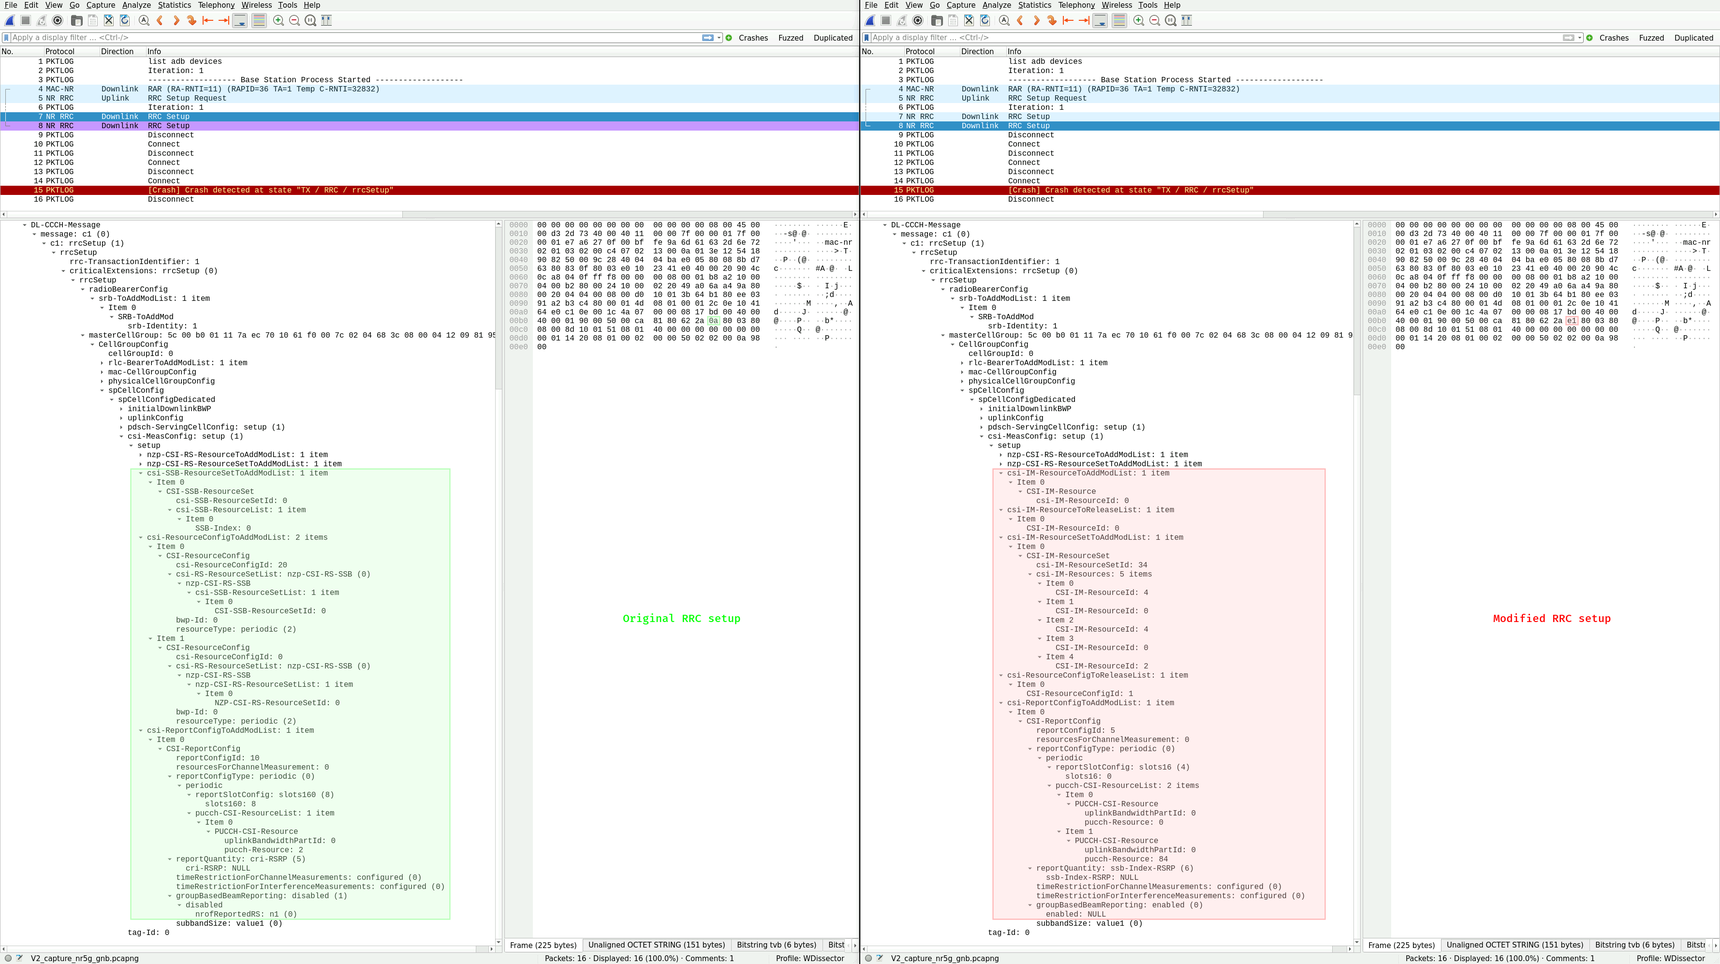
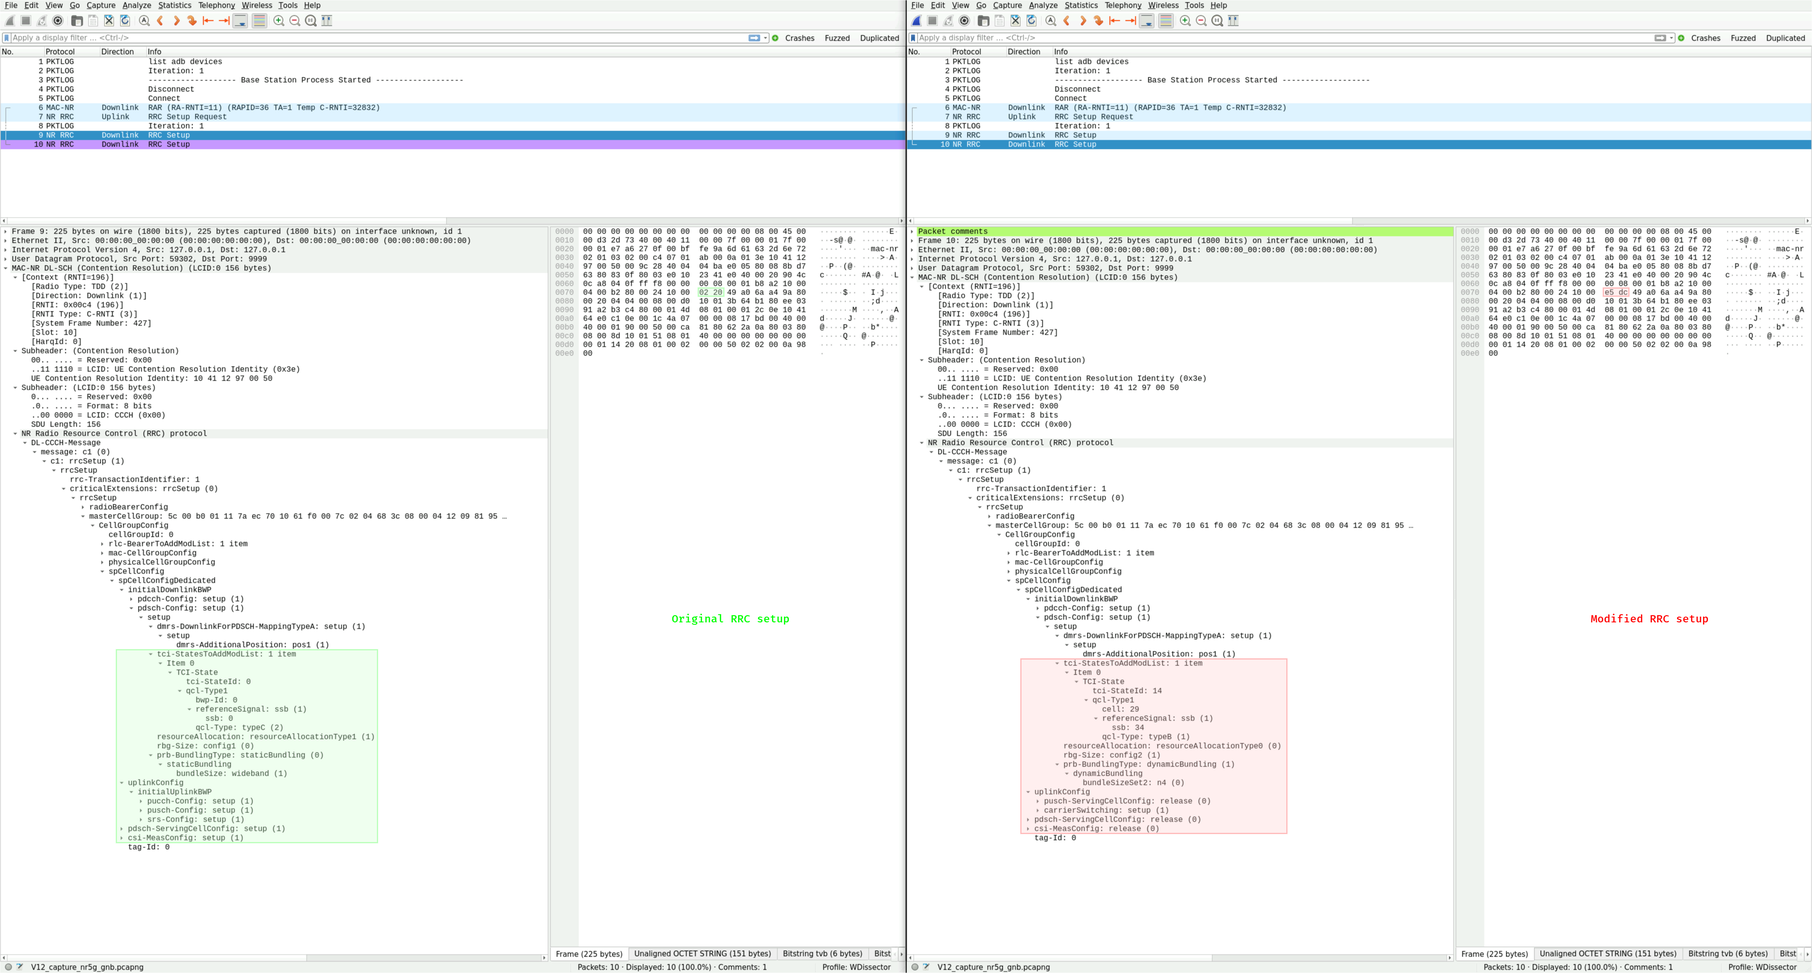
Add disclosure of vulnerabilities V2 - V6

diff --git a/index.md b/index.md
@@ -2,9 +2,9 @@
 | ----------------- | -------------------------------------------------------------------------------------------------- |
 | Affected Product  | MediaTek Dimensity 1080/7050 (MT6877) system-on-chip (SoC) with integrated 5G baseband             |
 | Affected Firmware | `MOLY.NR15.R3.TC8.PR5.SP.V5.P141` (older versions may also be affected)                            |
-| CVE ID            | [CVE-2025-20792](https://www.cve.org/CVERecord?id=CVE-2025-20792)                                  |
+| CVE IDs           | [CVE-2025-20792](https://www.cve.org/CVERecord?id=CVE-2025-20792), [CVE-2026-20422](https://www.cve.org/CVERecord?id=CVE-2026-20422), [CVE-2026-20421](https://www.cve.org/CVERecord?id=CVE-2026-20421), [CVE-2026-20402](https://www.cve.org/CVERecord?id=CVE-2026-20402), [CVE-2026-20401](https://www.cve.org/CVERecord?id=CVE-2026-20401), [CVE-2026-20420](https://www.cve.org/CVERecord?id=CVE-2026-20420) |
 | Vendor Website    | [https://www.mediatek.com](https://www.mediatek.com)                                               |
-| Identified in     | July 2025                                                                                          |
+| Identified in     | July - August 2025                                                                                 |
 | Identified by     | IoT Lab, University of Applied Sciences Upper Austria, Campus Hagenberg                            |
 | Website           | [https://www.fh-ooe.at/si/](https://www.fh-ooe.at/si/)                                             |
 | Team              | Denis Krämer B.Sc., Dieter Vymazal M.Sc., DI Markus Zeilinger                                      |
@@ -24,9 +24,9 @@ During the 5G NR initial attachment procedure, unauthenticated radio resource co
 
 An attacker can use a malicious gNB to send modified RRC setup messages to nearby MediaTek basebands and continuously trigger a modem reset, which results in a loss of mobile network connectivity for these subscribers until the attack is stopped. The attack requires no knowledge of any confidential information stored on the universal integrated circuit cards (UICCs) of the targets, because the RRC setup message is sent by the network to the baseband before any mutual authentication (5G-AKA) is performed. Only the mobile country code (MCC) and mobile network code (MNC) of the target's network is required to successfully execute such an attack. Since the [ITU-T assigns and publishes the MCC/MNC of public networks](http://handle.itu.int/11.1002/pub/82153a48-en), and only a handful of them exist per country, we argue that this requirement adds little complexity to the attack. Moreover, while the attack requires physical proximity to the target, it requires no interaction on behalf of the user.
 
-## Proof of concept
+## Proof of Concept
 
-In the following proof of concept (PoC) video for vulnerability V1, a modified RRC setup message is sent to the baseband upon connecting to a malicious nearby gNB. An exception in the firmware is triggered and the modem restarts, which can be verified by the Android Debug Bridge (adb) logs of the smartphone. The adb logs contain further information about the location of the exception. Moreover, a temporary loss of connectivity of the Android smartphone can be observed.
+In the following proof of concept (PoC) exploitation video for vulnerability V1, a modified RRC setup message is sent to the baseband upon connecting to a malicious nearby gNB. An exception in the firmware is triggered and the modem restarts, which can be verified by the Android Debug Bridge (adb) logs of the smartphone. The adb logs contain further information about the location of the exception. Moreover, a temporary loss of connectivity of the Android smartphone can be observed.
 
 <video controls muted preload><source src="/mediatek_mt6877_baseband_vulnerabilities/assets/videos/V1_poc_exploit_2x.mp4" type="video/mp4"></video>
 
@@ -42,35 +42,147 @@ Triggering vulnerability V1 results in the following adb log entry:
 [Fatal error(MPU_NOT_ALLOW)] err_code1:0x0000001D err_code2:0x90FE3166 err_code3:0x00000000
 ```
 
-To reproduce this issue, starting from the MAC-NR layer, change the byte at offset 123 of a valid RRC setup message to any of the following values: `{0x42}` or `{0x4c}`, e.g. `{0x4c}` (as shown in figure 1). This corresponds to changing the 1st and 2nd byte of the `pdsch-ServingCellConfig` field inside the RRC payload, e.g. to `{0x09, 0x90}`. According to Wireshark, this changes its `setup` into a `release` field. Moreover, this modification alters several of the configuration lists contained in the subsequent `csi-MeasConfig setup` field.
+To reproduce this issue, starting from the MAC-NR layer, change the byte at offset 123 of a valid RRC setup message to any of the following values: `{0x42}` or `{0x4c}`, e.g. `{0x4c}` (as shown in Figure 1). This corresponds to changing the 1st and 2nd byte of the `pdsch-ServingCellConfig` field inside the RRC payload, e.g. to `{0x09, 0x90}`. According to Wireshark, this changes its `setup` into a `release` field. Moreover, this modification alters several of the configuration lists contained in the subsequent `csi-MeasConfig setup` field.
 
-<details>
-<summary>Figure 1: Comparison of the original and modified RRC setup message for vulnerability V1 in Wireshark (click to show).</summary>
+<details open>
+<summary>Figure 1: Comparison of the original and modified RRC setup message for vulnerability V1 in Wireshark.</summary>
 <img src="assets/images/V1_rrc_setup_original_vs_modified.png" alt="">
 </details>
 
-Note: vulnerability V1 can also be triggered by changing the byte at offset 128 of a valid RRC setup message to the value `{0xe0}`.
-
-## Vulnerability V2: invalid csi-MeasConfig setup ([CVE-2025-20792](https://www.cve.org/CVERecord?id=CVE-2025-20792))
-
-Triggering vulnerability V2 results in the following adb log entry:
+Note: this vulnerability can also be triggered by changing the byte at offset 128 of a valid RRC setup message to the value `{0xe0}` or `{0xe1}`. The latter results in the following adb log entry (note the different `err_code2`):
 
 ```
 [Fatal error(MPU_NOT_ALLOW)] err_code1:0x0000001D err_code2:0x90FE3088 err_code3:0x00000000
 ```
 
-To reproduce this issue, starting from the MAC-NR layer, change the byte at offset 128 of a valid RRC setup message to the value `{0xe1}` (as shown in figure 2). This corresponds to changing the 2nd and 3rd byte of the `csi-MeasConfig setup` field inside the RRC payload, e.g. to `{0x5c, 0x30}`. According to Wireshark, this alters the type of the therein contained `csi-SSB-ResourceSetToAddModList`, `csi-ResourceConfigToAddModList` and `csi-ReportConfigToAddModList` fields or changes their contents to invalid values.
+This corresponds to changing the 2nd and 3rd byte of the `csi-MeasConfig setup` field inside the RRC payload to `{0x5c, 0x30}`. According to Wireshark, this alters the type of the therein contained `csi-SSB-ResourceSetToAddModList`, `csi-ResourceConfigToAddModList` and `csi-ReportConfigToAddModList` fields or changes their contents to invalid values.
 
-<details>
-<summary>Figure 2: Comparison of the original and modified RRC setup message for vulnerability V2 in Wireshark (click to show).</summary>
+## Vulnerability V2: invalid pdsch-Config and truncated uplinkConfig ([CVE-2026-20422](https://www.cve.org/CVERecord?id=CVE-2026-20422))
+
+Triggering vulnerability V2 results in any of the following adb log entries:
+
+```
+[Fatal error(task)] err_code1:0x00003107 err_code2:0x00010008 err_code3:0xCCCCCCCC
+[Fatal error(task)] err_code1:0x00003107 err_code2:0x00010040 err_code3:0xCCCCCCCC
+[Fatal error] err_code1:0x00000020 err_code2:0x7CE70FC3 err_code3:0x00000000
+[ASSERT] file:dsp3/coresonic/msonic/modem/tx/nr/tx/src/nr_tx_hwctrl.c line:2258
+```
+
+To reproduce this issue, starting from the MAC-NR layer, change the following bytes at the respective offsets of a valid RRC setup message (as shown in Figure 2):
+
+| Offset | Value |
+| ------ | ----- |
+| 60     | 0xe5  |
+| 61     | 0xdc  |
+
+This corresponds to changing the 46th to 48th byte inside the RRC payload to `{0x1c, 0xbb, 0x89}`. According to Wireshark, this alters the `pdsch-Config` field and truncates the `uplinkConfig` field, which are both contained in the `spCellConfig` field.
+
+<details open>
+<summary>Figure 2: Comparison of the original and modified RRC setup message for vulnerability V2 in Wireshark.</summary>
 <img src="assets/images/V2_rrc_setup_original_vs_modified.png" alt="">
 </details>
 
-Note: triggering vulnerability V2 results in a different `err_code2` compared to vulnerability V1.
+Note: After the crash, the modem hangs for several minutes and requires a subsequent reset in order to resume normal operation (i.e. re-establish connectivity with the mobile network). Occasionally, the modem crashes again with the following adb log entry:
 
-## Vulnerabilities V3 - V11
+```
+[Others] MD watchdog timeout interrupt
+```
 
-We identified 9 additional vulnerabilities which were marked as duplicates by MediaTek. Once they have been publicly disclosed, we will update this section with further details.
+The loss of connectivity sometimes persists even after a modem reset, necessitating a manual reboot of the UE in order to resume normal operation.
+
+## Vulnerability V3: invalid csi-ResourceConfigToAddModList and csi-ReportConfigToAddModList ([CVE-2026-20421](https://www.cve.org/CVERecord?id=CVE-2026-20421))
+
+Triggering vulnerability V3 results in the following adb log entry:
+
+```
+[Fatal error(MPU_NOT_ALLOW)] err_code1:0x0000001D err_code2:0x90FE3AD4 err_code3:0x00000001
+```
+
+To reproduce this issue, starting from the MAC-NR layer, change the following bytes at the respective offsets of a valid RRC setup message (as shown in Figure 3):
+
+| Offset | Value |
+| ------ | ----- |
+| 153    | 0xaa  |
+| 154    | 0x33  |
+
+This corresponds to changing the 139th to 141st byte inside the RRC payload to `{0x15, 0x46, 0x60}`. According to Wireshark, this alters the `csi-ResourceConfigToAddModList` and `csi-ReportConfigToAddModList` inside the `csi-MeasConfig` field.
+
+<details open>
+<summary>Figure 3: Comparison of the original and modified RRC setup message for vulnerability V3 in Wireshark.</summary>
+<img src="assets/images/V3_rrc_setup_original_vs_modified.png" alt="">
+</details>
+
+## Vulnerability V4: invalid and truncated spCellConfig ([CVE-2026-20402](https://www.cve.org/CVERecord?id=CVE-2026-20402))
+
+Triggering vulnerability V4 results in the following adb log entry:
+
+```
+[ASSERT] file:mcu/l1/nl1/internal/md97/src/tx/nr_tx_database_mcu.c line:4058
+```
+
+To reproduce this issue, starting from the MAC-NR layer, change the following bytes at the respective offsets of a valid RRC setup message (as shown in Figure 4):
+
+| Offset | Value |
+| ------ | ----- |
+| 36     | 0xa9  |
+| 37     | 0x04  |
+| 38     | 0x8d  |
+| 39     | 0x81  |
+
+This corresponds to changing the 23rd to 26th byte inside the RRC payload to `{0x20, 0x91, 0xb0, 0x3f}`. According to Wireshark, this alters and truncates the `spCellConfig` field. Notably, it changes the type of several fields contained therein, leading to their reinterpretation as `radioLinkMonitoringConfig` and `uplinkBWP-ToAddModList` fields.
+
+<details open>
+<summary>Figure 4: Comparison of the original and modified RRC setup message for vulnerability V4 in Wireshark.</summary>
+<img src="assets/images/V4_rrc_setup_original_vs_modified.png" alt="">
+</details>
+
+## Vulnerability V5: invalid monitoringSymbolsWithinSlot ([CVE-2026-20401](https://www.cve.org/CVERecord?id=CVE-2026-20401))
+
+Triggering vulnerability V5 results in the following adb log entry:
+
+```
+[ASSERT] file:dsp3/coresonic/msonic/modem/brp/nr/nr_cbrp/src/nr_cbrp_cfg_task.c line:4890
+```
+
+To reproduce this issue, starting from the MAC-NR layer, change the following bytes at the respective offsets of a valid RRC setup message (as shown in Figure 5):
+
+| Offset | Value |
+| ------ | ----- |
+| 50     | 0x17  |
+| 51     | 0xbf  |
+
+This corresponds to changing the 37th and 38th byte inside the RRC payload to `{0xf7, 0xe0}`. According to Wireshark, this changes the `monitoringSymbolsWithinSlot` field of the `searchSpacesToAddModList` inside the `spCellConfig pdcch-Config` field to an invalid value.
+
+<details open>
+<summary>Figure 5: Comparison of the original and modified RRC setup message for vulnerability V5 in Wireshark.</summary>
+<img src="assets/images/V5_rrc_setup_original_vs_modified.png" alt="">
+</details>
+
+## Vulnerability V6: invalid pucch-Config and pusch-Config ([CVE-2026-20420](https://www.cve.org/CVERecord?id=CVE-2026-20420))
+
+Triggering vulnerability V6 results in the following adb log entry:
+
+```
+[ASSERT] file:dsp3/coresonic/msonic/modem/tx/nr/tx/src/nr_tx_pwr_ctrl.c line:4691
+```
+
+To reproduce this issue, starting from the MAC-NR layer, change the following bytes at the respective offsets of a valid RRC setup message (as shown in Figure 6):
+
+| Offset | Value |
+| ------ | ----- |
+| 94     | 0xc9  |
+| 95     | 0x84  |
+| 96     | 0x51  |
+| 97     | 0x44  |
+| 98     | 0xc3  |
+| 99     | 0x69  |
+
+This corresponds to changing the 80th to 85th byte inside the RRC payload to `{0x39, 0x30, 0x8a, 0x28, 0x98, 0x6d}`. According to Wireshark, this alters the `pucch-Config` and `pusch-Config` fields inside the `spCellConfig uplinkConfig` field, and truncates the remaining RRC setup message.
+
+<details open>
+<summary>Figure 6: Comparison of the original and modified RRC setup message for vulnerability V6 in Wireshark.</summary>
+<img src="assets/images/V6_rrc_setup_original_vs_modified.png" alt="">
+</details>
 
 ## Affected Product and Firmware
 
@@ -86,7 +198,7 @@ SHA-256 hash of the affected baseband firmware image (bundled by Xiaomi):
 
 ## Solution
 
-MediaTek identified a common root cause for the vulnerabilities V1 - V2 and publicly disclosed the issue as part of their [December 2025 Product Security Bulletin](https://corp.mediatek.com/product-security-bulletin/December-2025). Moreover, MediaTek stated that they have released updated baseband firmware which fixes these vulnerabilities. MediaTek recommends that users reach out to their device original equipment manufacturer (OEM) if they would like to confirm which baseband firmware version includes the patch.
+MediaTek publicly disclosed vulnerability V1 as part of their [December 2025 Product Security Bulletin](https://corp.mediatek.com/product-security-bulletin/December-2025) and the vulnerabilities V2 - V6 as part of their [February 2026 Product Security Bulletin](https://corp.mediatek.com/product-security-bulletin/February-2026). Moreover, MediaTek stated that they have released updated baseband firmware which fixes these vulnerabilities. MediaTek recommends that users reach out to their device original equipment manufacturer (OEM) if they would like to confirm which baseband firmware version includes the patch.
 
 ## Vendor Statement
 
@@ -96,9 +208,11 @@ The vendor has requested to include the following official statement by Tiger Hs
 
 ## Communication Timeline
 
+### Vulnerability Report 1 (Vulnerability V1)
+
 | Date       | Sender       | Description |
 | ---------- | ------------ | ----------- |
-| 2025-08-04 | Denis Krämer | Contacted MediaTek using their PGP public key and attached the vulnerability report. |
+| 2025-08-04 | Denis Krämer | Contacted MediaTek using their PGP public key and attached the first vulnerability report. |
 | 2025-08-08 | -            | Received information that the mail has been rejected by MediaTek's mail server due to its size. |
 | 2025-08-08 | Denis Krämer | Provided the vulnerability report in two chunks. |
 | 2025-08-20 | Denis Krämer | Reminded MediaTek of the 90 days disclosure deadline. |
@@ -115,12 +229,12 @@ The vendor has requested to include the following official statement by Tiger Hs
 | 2025-09-16 | MediaTek     | Requests a link to the blog where the advisories will be published. |
 | 2025-09-16 | Denis Krämer | Provided an example of a previous advisory from IoT-Lab-FH-OOE. |
 | 2025-09-17 | MediaTek     | Thanks for the additional information. |
-| 2025-09-18 | MediaTek     | Clarifies that the vulnerabilities V3 - V11 have been classified as duplicates. |
-| 2025-09-19 | MediaTek     | States that the vulnerabilities V1 - V2 share the same root cause and have received a high severity rating. |
-| 2025-09-22 | -            | MediaTek shares the fix for the vulnerabilities V1 - V2 with their OEM partners (according to a statement by MediaTek from 2025-11-25). |
+| 2025-09-18 | MediaTek     | Clarifies that some of the vulnerabilities have been classified as duplicates (these were omitted from this advisory). |
+| 2025-09-19 | MediaTek     | States that two vulnerabilities share the same root cause and have received a high severity rating (these have been cumulated in this advisory). |
+| 2025-09-22 | -            | MediaTek shares the fix for vulnerability V1 with their OEM partners (according to a statement by MediaTek from 2025-11-25). |
 | 2025-09-23 | Denis Krämer | Requested the CVE IDs and provided the information for the acknowledgements page. |
 | 2025-09-25 | MediaTek     | Acknowledges the information, states that CVE IDs for duplicate findings will be available after their public disclosure. |
-| 2025-10-14 | MediaTek     | Assigns CVE-2025-20792 for the vulnerabilities V1 - V2, plans to release a patch and disclose them after an additional two months. |
+| 2025-10-14 | MediaTek     | Assigns CVE-2025-20792 to vulnerability V1, plans to release a patch and disclose it after an additional two months. |
 | 2025-10-16 | Denis Krämer | Inquired whether CVE-2025-20792 will be included in MediaTek's December 2025 product security bulletin. |
 | 2025-10-16 | MediaTek     | Clarifies that CVE-2025-20792 will be included in their December 2025 product security bulletin. |
 | 2025-11-06 | MediaTek     | Provides an official statement to be included in the advisory, requests a draft before public release. |
@@ -139,18 +253,54 @@ The vendor has requested to include the following official statement by Tiger Hs
 | 2025-11-26 | Denis Krämer | Provided the revised draft of the advisory. |
 | 2025-11-26 | MediaTek     | Thanks for the additional information. |
 | 2025-12-01 | -            | MediaTek releases their December 2025 security bulletin. |
-| 2025-12-01 | Denis Krämer | Asked to correct the credit information for CVE-2025-20792 on their acknowledgements page, since it was missing a word (the location of my university). |
-| 2025-12-01 | MediaTek     | Stated that the credit information was updated. |
+| 2025-12-01 | Denis Krämer | Asked to correct the credit information on their acknowledgements page, since it was incomplete. |
+| 2025-12-01 | MediaTek     | States that the credit information was updated. |
 | 2025-12-01 | Denis Krämer | Asked to verify if the update was successful, since it still showed the old information. |
 | 2025-12-01 | -            | The credit information was corrected. |
-| 2025-12-02 | MediaTek     | Stated that the credit information was already updated. |
+| 2025-12-02 | MediaTek     | States that the credit information was already updated. |
+
+### Vulnerability Report 2 (Vulnerabilities V2 - V6)
+
+| Date       | Sender       | Description |
+| ---------- | ------------ | ----------- |
+| 2025-10-07 | Denis Krämer | Contacted MediaTek using their PGP public key and attached the second vulnerability report. |
+| 2025-10-08 | MediaTek     | Acknowledges receipt of the report. |
+| 2025-10-16 | MediaTek     | Inquires if a public disclosure is planned. |
+| 2025-10-16 | Denis Krämer | Communicated the 90 days disclosure plan with the intention of a simultaneous disclosure. |
+| 2025-10-21 | MediaTek     | Is still reviewing the report, states that a disclosure in February 2026 is likely. |
+| 2025-10-21 | Denis Krämer | Confirmed that the vulnerabilities will be kept confidential until their official disclosure. |
+| 2025-10-23 | MediaTek     | Requests additional information on vulnerability V2. |
+| 2025-10-23 | Denis Krämer | Provided the requested information to MediaTek. |
+| 2025-10-27 | MediaTek     | Confirms receipt of the information. |
+| 2025-10-29 | MediaTek     | Provides an intermediary update on their assessment of the reported issues (any issues marked as duplicates were omitted from this advisory). |
+| 2025-11-03 | MediaTek     | Is unable to reproduce vulnerability V2, asks to reproduce the issue on a Dimensity 9400 (MT6991)-based device. |
+| 2025-11-03 | Denis Krämer | Asked if MediaTek it is willing to provide such a device, alternatively offered to update a Dimensity 1080 (MT6877)-based device to the latest firmware to try to reproduce the issue there. |
+| 2025-11-03 | MediaTek     | States that it cannot provide such a device and recommends using their latest chipsets for security testing. |
+| 2025-11-03 | Denis Krämer | Informed MediaTek that I am not able to perform the requested tests without such a device, asked if MediaTek is interested in maintaining the security of its older chipsets. |
+| 2025-11-04 | MediaTek     | Clarifies that it still regards issues for its older chipsets as valid. |
+| 2025-11-04 | MediaTek     | Provides an intermediary update on their assessment of the reported issues, requests further information on vulnerability V2. |
+| 2025-11-04 | MediaTek     | Requests even more information on vulnerability V2. |
+| 2025-11-04 | Denis Krämer | Provided the requested information to MediaTek. |
+| 2025-11-04 | MediaTek     | Acknowledges the additional information. |
+| 2025-11-07 | Denis Krämer | Informed MediaTek that I will provide a crash dump for vulnerability V2 once Xiaomi has granted the bootloader unlock for the testing device. |
+| 2025-11-17 | MediaTek     | States that it was able to reproduce vulnerability V2, plans to disclose the vulnerabilities V2 - V6 in their February 2026 security bulletin. |
+| 2025-11-19 | Denis Krämer | Thanked MediaTek for the information. |
+| 2025-11-20 | MediaTek     | Provides further information on their assessment of the other reported issues. |
+| 2025-12-01 | MediaTek     | States that it will disclose the issues in February 2026 along with the previous credit information. |
+| 2026-01-19 | MediaTek     | Asks for a draft of the advisory. |
+| 2026-01-20 | Denis Krämer | Replied that I require more time to finalize the draft. |
+| 2026-03-16 | Denis Krämer | Provided a draft of the advisory. |
+| 2026-03-17 | MediaTek     | Acknowledges receipt of the draft. |
+| 2026-04-20 | Denis Krämer | Inquired about the current status on reviewing the draft. |
+| 2026-04-21 | MediaTek     | States that it has reviewed the draft and has no comments. |
 
 ## Version History
 
-| Date       | Version | Changes                                    |
-| ---------- | ------- | ------------------------------------------ |
-| 2025-11-24 | v0.1    | Initial draft                              |
-| 2025-11-25 | v0.2    | Incorporated changes from MediaTek         |
-| 2025-11-26 | v0.3    | Cosmetic changes                           |
-| 2025-12-01 | v0.4    | Updated timeline                           |
-| 2025-12-02 | v1.0    | Initial release of vulnerabilities V1 - V2 |
+| Date       | Version | Changes                                   |
+| ---------- | ------- | ----------------------------------------- |
+| 2025-11-24 | v0.1    | Initial draft                             |
+| 2025-11-25 | v0.2    | Incorporated changes from MediaTek        |
+| 2025-11-26 | v0.3    | Cosmetic changes                          |
+| 2025-12-01 | v0.4    | Updated timeline                          |
+| 2025-12-02 | v1.0    | Initial release of vulnerability V1       |
+| 2026-05-01 | v2.0    | Add disclosure of vulnerabilities V2 - V6 |
